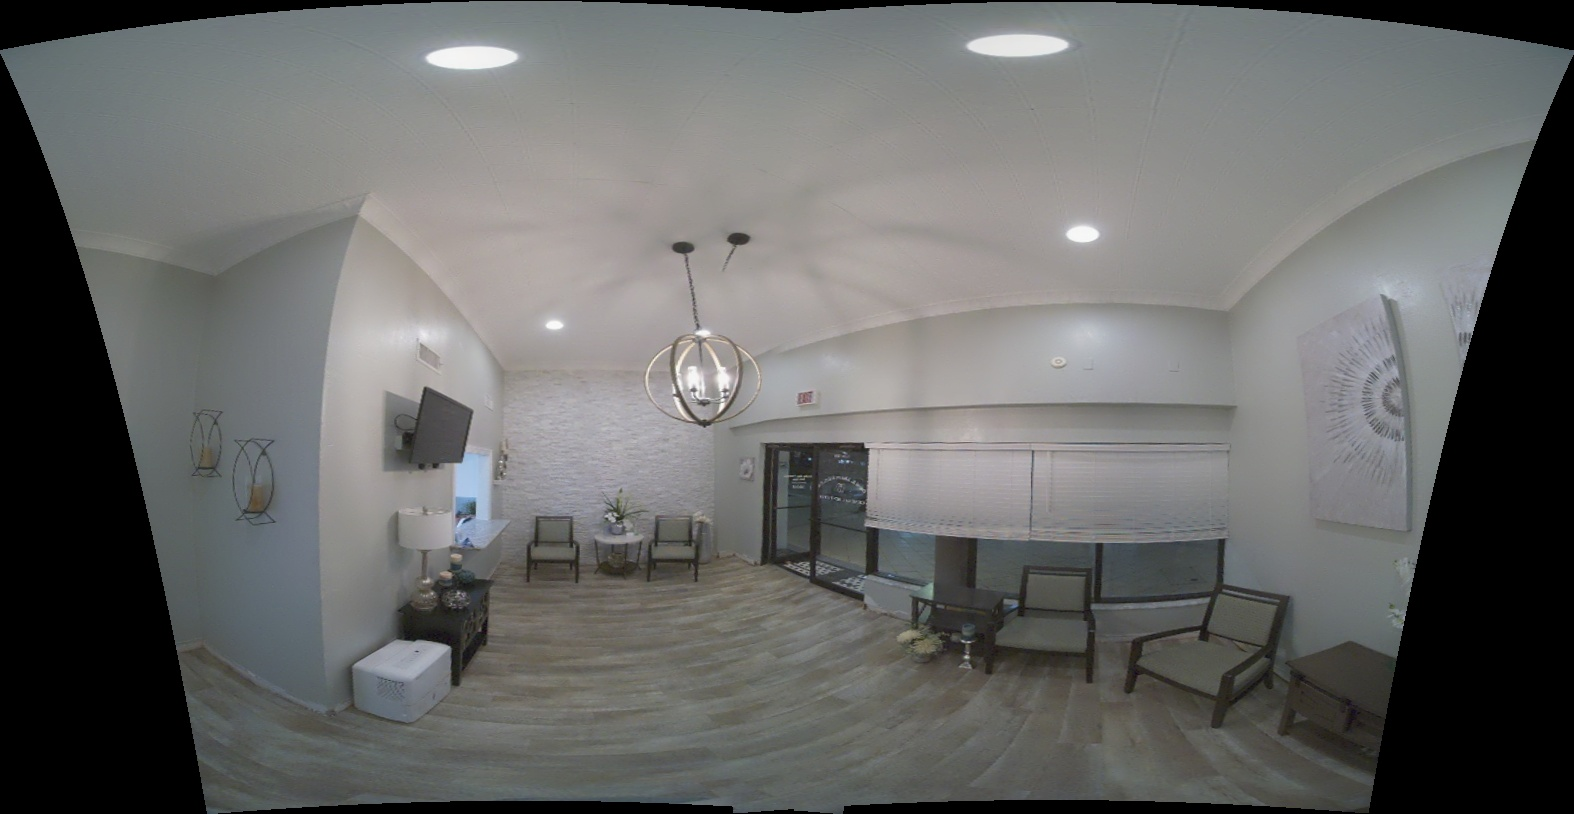
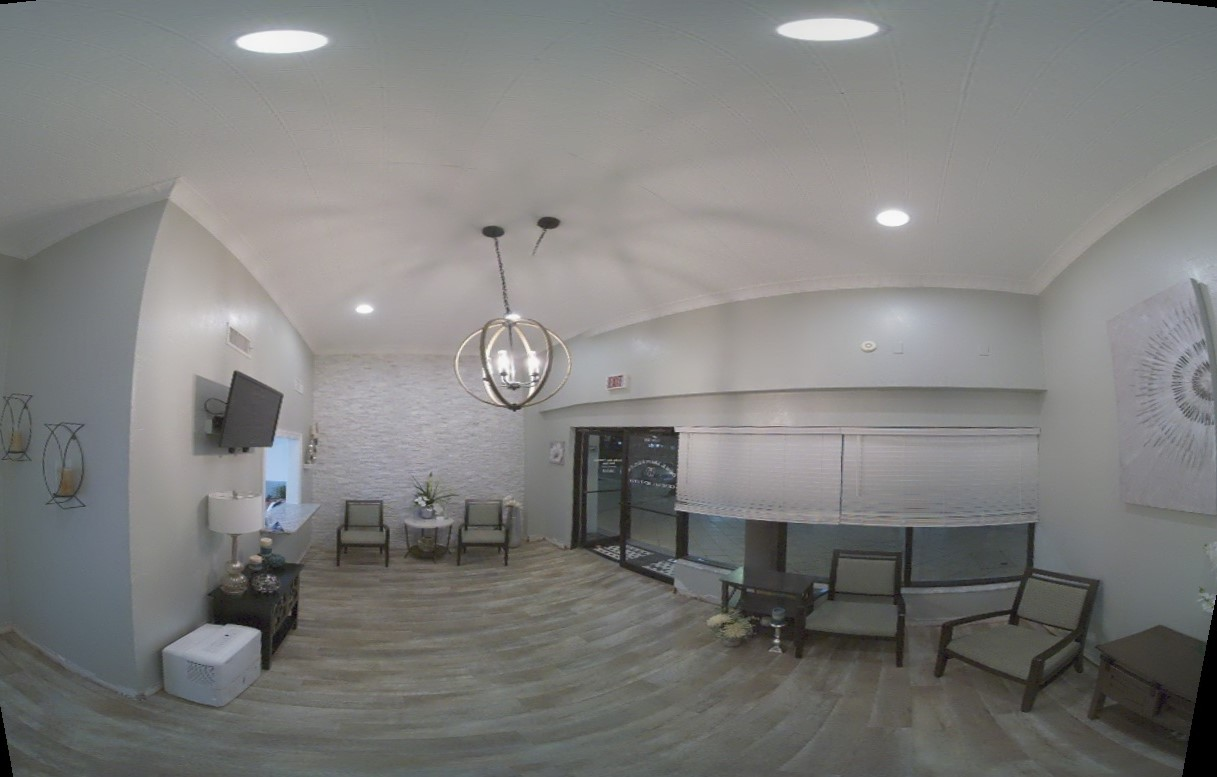
simplified asset making for transition nodes

diff --git a/1_SCRIPTS/3_Testing/transitionNodes.js b/1_SCRIPTS/3_Testing/transitionNodes.js
@@ -1,124 +1,131 @@
 document.addEventListener('DOMContentLoaded', () => {
-    const scene = document.querySelector('a-scene');
-    var main_class = "transitionNode";
-    
-    // Get colors from CSS palette
-    const colors = getComputedStyle(document.documentElement);
-    const color_hoverIn = colors.getPropertyValue('--hoverIn').trim();
-    const color_mediaPlayer = colors.getPropertyValue('--mediaPlayer').trim();
-    const color_hoverInClicked = colors.getPropertyValue('--hoverInClicked').trim();
-    const color_transitionNode = colors.getPropertyValue('--transitionNode').trim();
 
 
 
     
-    // Setting initial colors of objects
-    scene.addEventListener('loaded', function () 
-    {
-        const entities = document.querySelectorAll('[class=' + main_class + ']');
-        entities.forEach(entity => {
-            console.log(entity);
-            entity.setAttribute('material', 'color', color_transitionNode);
-            console.log(entity);
-        });
-    });
-
-
-    // Changing color of objects when hovering over them
-    scene.addEventListener('hoverin', function (event) 
-    {   
-        if (event.target.classList.contains(main_class)){
-            event.target.setAttribute('material', 'color', color_hoverIn);
-        }
-    });
-
-
-    scene.addEventListener('hoverout', function (event) 
-    {
-        const target = event.target;
-        if (target.classList.contains(main_class)){
-            target.setAttribute('material', 'color', color_transitionNode); // Revert color on hover out
-        }
-    });
-
-
-
-    // Changing color of objects when hovering over them and unclicking
-    scene.addEventListener('hoverin_mouseup', function (event) 
-    {
-    if (event.target.classList.contains(main_class))
-    {
-        event.target.setAttribute('material', 'color', color_transitionNode); 
-    }
-    });
-
-
-    // Changing color of objects when hovering over them and clicking
-    scene.addEventListener('hoverin_mousedown', function (event) 
-    {
-        if (event.target.classList.contains(main_class)){
-            event.target.setAttribute('material', 'color', color_hoverInClicked);
-        }
-    });
-
-
-    // listen to mouseClicked event (it checks if click clicked on a clickable event)
-    scene.addEventListener('mouseClicked', (event) => 
-    {
-
-        // "visible" is a special attribute that is boolean, unlicke my made up "clickable" attribute.
-        // Thus, no need for === signs to check "visible" attribute truth.
-        if ((event.target.getAttribute('visible')) && (event.target.classList.contains(main_class)))  
-            {
-            
-            // Get the id of the clicked entity
-            var clickedId = event.target.id;
-            var obj = document.getElementById(clickedId); //obj is the clickable thing that is clicked
-            var background_img_id = obj.getAttribute('background_img_id');
-            var new_background_img_id = obj.getAttribute('new_background_img_id'); //get id of linked image
-            var url = obj.getAttribute('target_src'); //get url of linked image
-            console.log(url);
-
-
-            // Changing background image
-            function changeImage(url, new_background_img_id){
-                // change background image
-                // input: url: string, new_background_img_id: string
-                // update 360 image in the scene
-                var background_img = document.getElementById("background_img");
-                background_img.setAttribute('src', url);
-                background_img.setAttribute('background_img_id', new_background_img_id);
-                console.log('Moved to new scene!');
-            }
-            if (obj.classList.contains("transitionNode")){
-                event.target.setAttribute('color', color_mediaPlayer); // resetting color on clicking
-                changeImage(url, new_background_img_id) // changing background image
-            }
-            
+        const scene = document.querySelector('a-scene');
+        var main_class = "transitionNode";
         
+        // Get colors from CSS palette
+        const colors = getComputedStyle(document.documentElement);
+        const color_hoverIn = colors.getPropertyValue('--hoverIn').trim();
+        const color_mediaPlayer = colors.getPropertyValue('--mediaPlayer').trim();
+        const color_hoverInClicked = colors.getPropertyValue('--hoverInClicked').trim();
+        const color_transitionNode = colors.getPropertyValue('--transitionNode').trim();
 
-            function toggleVisibility(selector, isVisible) {
-                const entities = document.querySelectorAll(selector); //select all enteties that match selector specs
-                entities.forEach(entity => {
-                    entity.setAttribute('visible', isVisible); //make all selector intities follow isVisible value
-                    if (isVisible) {
-                        entity.setAttribute('clickable', 'true'); // clickable if visible
-                    } else {
-                        entity.setAttribute('clickable', 'false'); // unclckable if invisible
-                    }
-                });
+
+
+        document.querySelector('#sky').addEventListener('materialtextureloaded', function () {
+            console.log('background_img TESTT!!!');
+        });
+        // Setting initial colors of objects
+        scene.addEventListener('loaded', function () 
+        {
+            const entities = document.querySelectorAll('[class=' + main_class + ']');
+            entities.forEach(entity => {
+                console.log(entity);
+                entity.setAttribute('material', 'color', color_transitionNode);
+                console.log(entity);
+            });
+        });
+
+
+        // Changing color of objects when hovering over them
+        scene.addEventListener('hoverin', function (event) 
+        {   
+            if (event.target.classList.contains(main_class)){
+                event.target.setAttribute('material', 'color', color_hoverIn);
+            }
+        });
+
+
+        scene.addEventListener('hoverout', function (event) 
+        {
+            const target = event.target;
+            if (target.classList.contains(main_class)){
+                target.setAttribute('material', 'color', color_transitionNode); // Revert color on hover out
+            }
+        });
+
+
+
+        // Changing color of objects when hovering over them and unclicking
+        scene.addEventListener('hoverin_mouseup', function (event) 
+        {
+        if (event.target.classList.contains(main_class))
+        {
+            event.target.setAttribute('material', 'color', color_transitionNode); 
+        }
+        });
+
+
+        // Changing color of objects when hovering over them and clicking
+        scene.addEventListener('hoverin_mousedown', function (event) 
+        {
+            if (event.target.classList.contains(main_class)){
+                event.target.setAttribute('material', 'color', color_hoverInClicked);
+            }
+        });
+
+
+        // listen to mouseClicked event (it checks if click clicked on a clickable event)
+        scene.addEventListener('mouseClicked', (event) => 
+        {
+
+            // "visible" is a special attribute that is boolean, unlicke my made up "clickable" attribute.
+            // Thus, no need for === signs to check "visible" attribute truth.
+            if ((event.target.getAttribute('visible')) && (event.target.classList.contains(main_class)))  
+                {
+                
+                // Get the id of the clicked entity
+                var clickedId = event.target.id;
+                var obj = document.getElementById(clickedId); //obj is the clickable thing that is clicked
+                var background_img_id = obj.getAttribute('background_img_id');
+                var new_background_img_id =  obj.getAttribute('new_background_img_id'); //get id of linked image
+                console.log(new_background_img_id);
+
+
+                // Changing background image
+                function changeImage( new_background_img_id){
+                    // change background image
+                    // input: url: string, new_background_img_id: string
+                    // update 360 image in the scene
+                    var sky = document.querySelector('#sky')
+                    sky.setAttribute('src', '#background_img'+new_background_img_id); 
+                    sky.setAttribute('background_img_id', new_background_img_id);
+                    console.log('Moved to new scene!', sky.getAttribute('src'));
+                }
+                if (obj.classList.contains("transitionNode")){
+                    event.target.setAttribute('color', color_mediaPlayer); // resetting color on clicking
+                    changeImage(new_background_img_id) // changing background image
+                }
+                
+            
+
+                function toggleVisibility(selector, isVisible) {
+                    const entities = document.querySelectorAll(selector); //select all enteties that match selector specs
+                    entities.forEach(entity => {
+                        entity.setAttribute('visible', isVisible); //make all selector intities follow isVisible value
+                        if (isVisible) {
+                            entity.setAttribute('clickable', 'true'); // clickable if visible
+                        } else {
+                            entity.setAttribute('clickable', 'false'); // unclckable if invisible
+                        }
+                    });
+                }
+
+                // Hide the transition icons old background
+                var selector = '[background_img_id="' + background_img_id + '"][class="transitionNode"]'; //background image is the image clicked from, type moved
+                toggleVisibility(selector, false);       
+
+                // show transition icon of new background
+                var selector2 = '[background_img_id="' + new_background_img_id + '"][class="transitionNode"]'; //background image is the new image we are clicking to, type moved
+                // Iterate over the selected entities and hide them
+                toggleVisibility(selector2, true);
             }
 
-            // Hide the transition icons old background
-            var selector = '[background_img_id="' + background_img_id + '"][class="transitionNode"]'; //background image is the image clicked from, type moved
-            toggleVisibility(selector, false);       
+        });
 
-            // show transition icon of new background
-            var selector2 = '[background_img_id="' + new_background_img_id + '"][class="transitionNode"]'; //background image is the new image we are clicking to, type moved
-            // Iterate over the selected entities and hide them
-            toggleVisibility(selector2, true);
-        }
 
-    });
 
 });

diff --git a/1_SCRIPTS/3_Testing/aframe_360_img.html b/1_SCRIPTS/3_Testing/aframe_360_img.html
@@ -27,13 +27,21 @@
     
     <a-scene id="scene">
 
+        <a-assets>
+            <img id="background_img1" src="0_resources/stitched_panorama_00001-cam.jpg" background_img_id="1"> 
+            <img id="background_img2" src="0_resources/stitched_panorama_00008-cam.jpg" background_img_id="2">
+            <img id="background_img3" src="0_resources/stitched_panorama_00001-cam.jpg" background_img_id="3">
+            <img id="background_img4" src="0_resources/stitched_panorama_00001-cam.jpg" background_img_id="4">
+
+        </a-assets>
+
         <a-camera id="camera" raycaster wasd-controls="enabled: false">
             <a-cursor fuse="false"></a-cursor>
         </a-camera>
 
         <!-- Loading in 360 image. -->
-        <a-sky id="background_img" src="0_resources/img5.jpg" 
-        background_img_id="'1"></a-sky>
+        <a-sky id="sky" src="#background_img1" background_img_id="1">            
+        </a-sky>
         
         <!-- Creating planes to play a video or show an image -->
         <a-plane id="mediaPlayer1" class="mediaPlayer" clickable="true" visible="true" 
@@ -61,22 +69,22 @@
         <!-- Creating some buttons to move between 360 images. -->
         <a-entity id="move1"  class="transitionNode" clickable="true" visible="true" 
             background_img_id="1" new_background_img_id= "2"
-            position="0 1.6 -4"
-            geometry="primitive: ring; radiusInner: 0.02; radiusOuter: .5" material="color: gray"           
-            target_src="0_resources/dental_clinic_highRes.jpeg"
+            position="2.433 -2.43037 -4.540" rotation="90 0 0" scale=".6 .6 .6"
+            geometry="primitive: ring; radiusInner: 0.02; radiusOuter: .5"  
+            material="color:gray; side:double"
             >   
         </a-entity>
+        
 
         <a-entity id="move2"  class="transitionNode" clickable="true" visible="false" 
             background_img_id="2" new_background_img_id = "1"
-            position="3 1.6 -4"
-            geometry="primitive: ring; radiusInner: 0.02; radiusOuter: .5" material="color: #4CC3D9"           
-            target_src="0_resources/dental_clinic_lowRes.jpeg"
+            position="2.837 -0.682 .8" rotation="-90 0 0" scale=".35 .35 .35"
+            geometry="primitive: ring; radiusInner: 0.02; radiusOuter: .5" 
+            material="color: gray; side:double"           
             >    
         </a-entity>
         
     </a-scene>
-    
     
 </body>
 

diff --git a/1_SCRIPTS/3_Testing/mediaPlayer.js b/1_SCRIPTS/3_Testing/mediaPlayer.js
@@ -79,7 +79,7 @@ document.addEventListener('DOMContentLoaded', () => {
             //     // This is just a placeholder; you need to implement it based on your application
             //     const newMediaSource = `path_to_media_${targetId}`;
             //     const mediaPlayer = document.getElementById('mediaPlayer1');
-            //     mediaPlayer.setAttribute('src', newMediaSource);
+            //     mediaPlayer.setAttribute('img_src', newMediaSource);
             // }
 
             // const popupMenu = document.getElementById('popup-menu');

diff --git a/1_SCRIPTS/1_Preprocessing/equirectangular_projection.py b/1_SCRIPTS/1_Preprocessing/equirectangular_projection.py
@@ -89,8 +89,8 @@ def crop_image_sides(image, crop_pixels, side='horizontal'):
     return cropped_image
 
 # 0. Define input image
-image_folder = "new"
-img_name = "00008-cam"
+image_folder = "new3"
+img_name = "00112-cam"
 image_paths = glob.glob(f"{image_folder}/{img_name}*.jpg")
 images = [cv2.imread(image_path) for image_path in image_paths]
 shift=1
